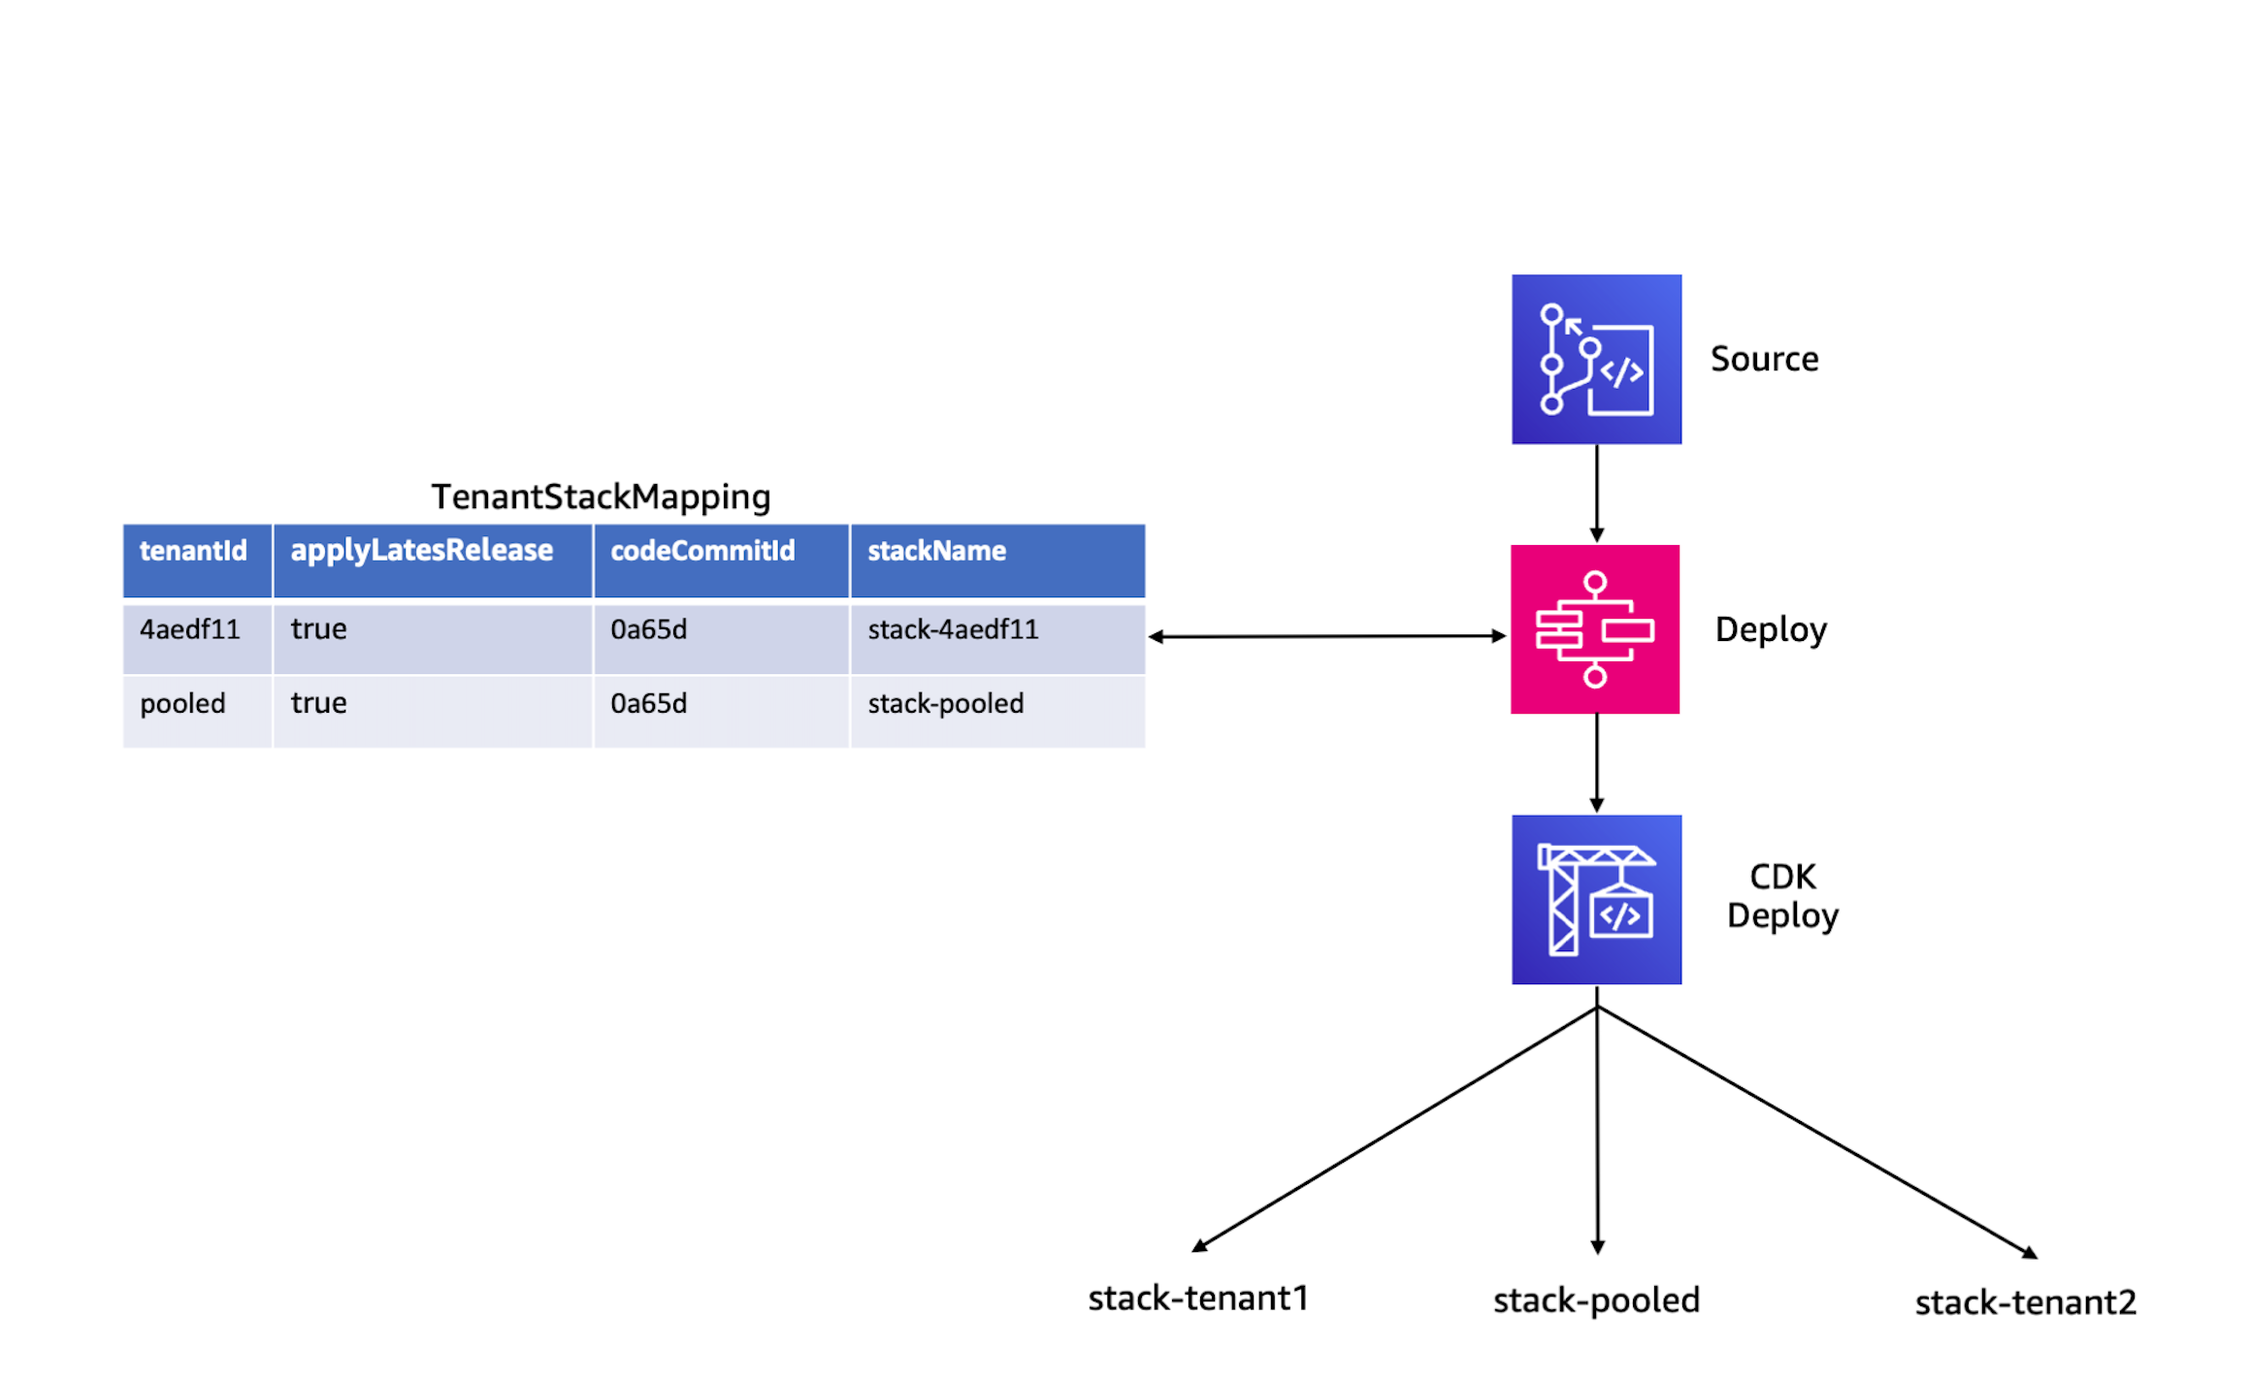
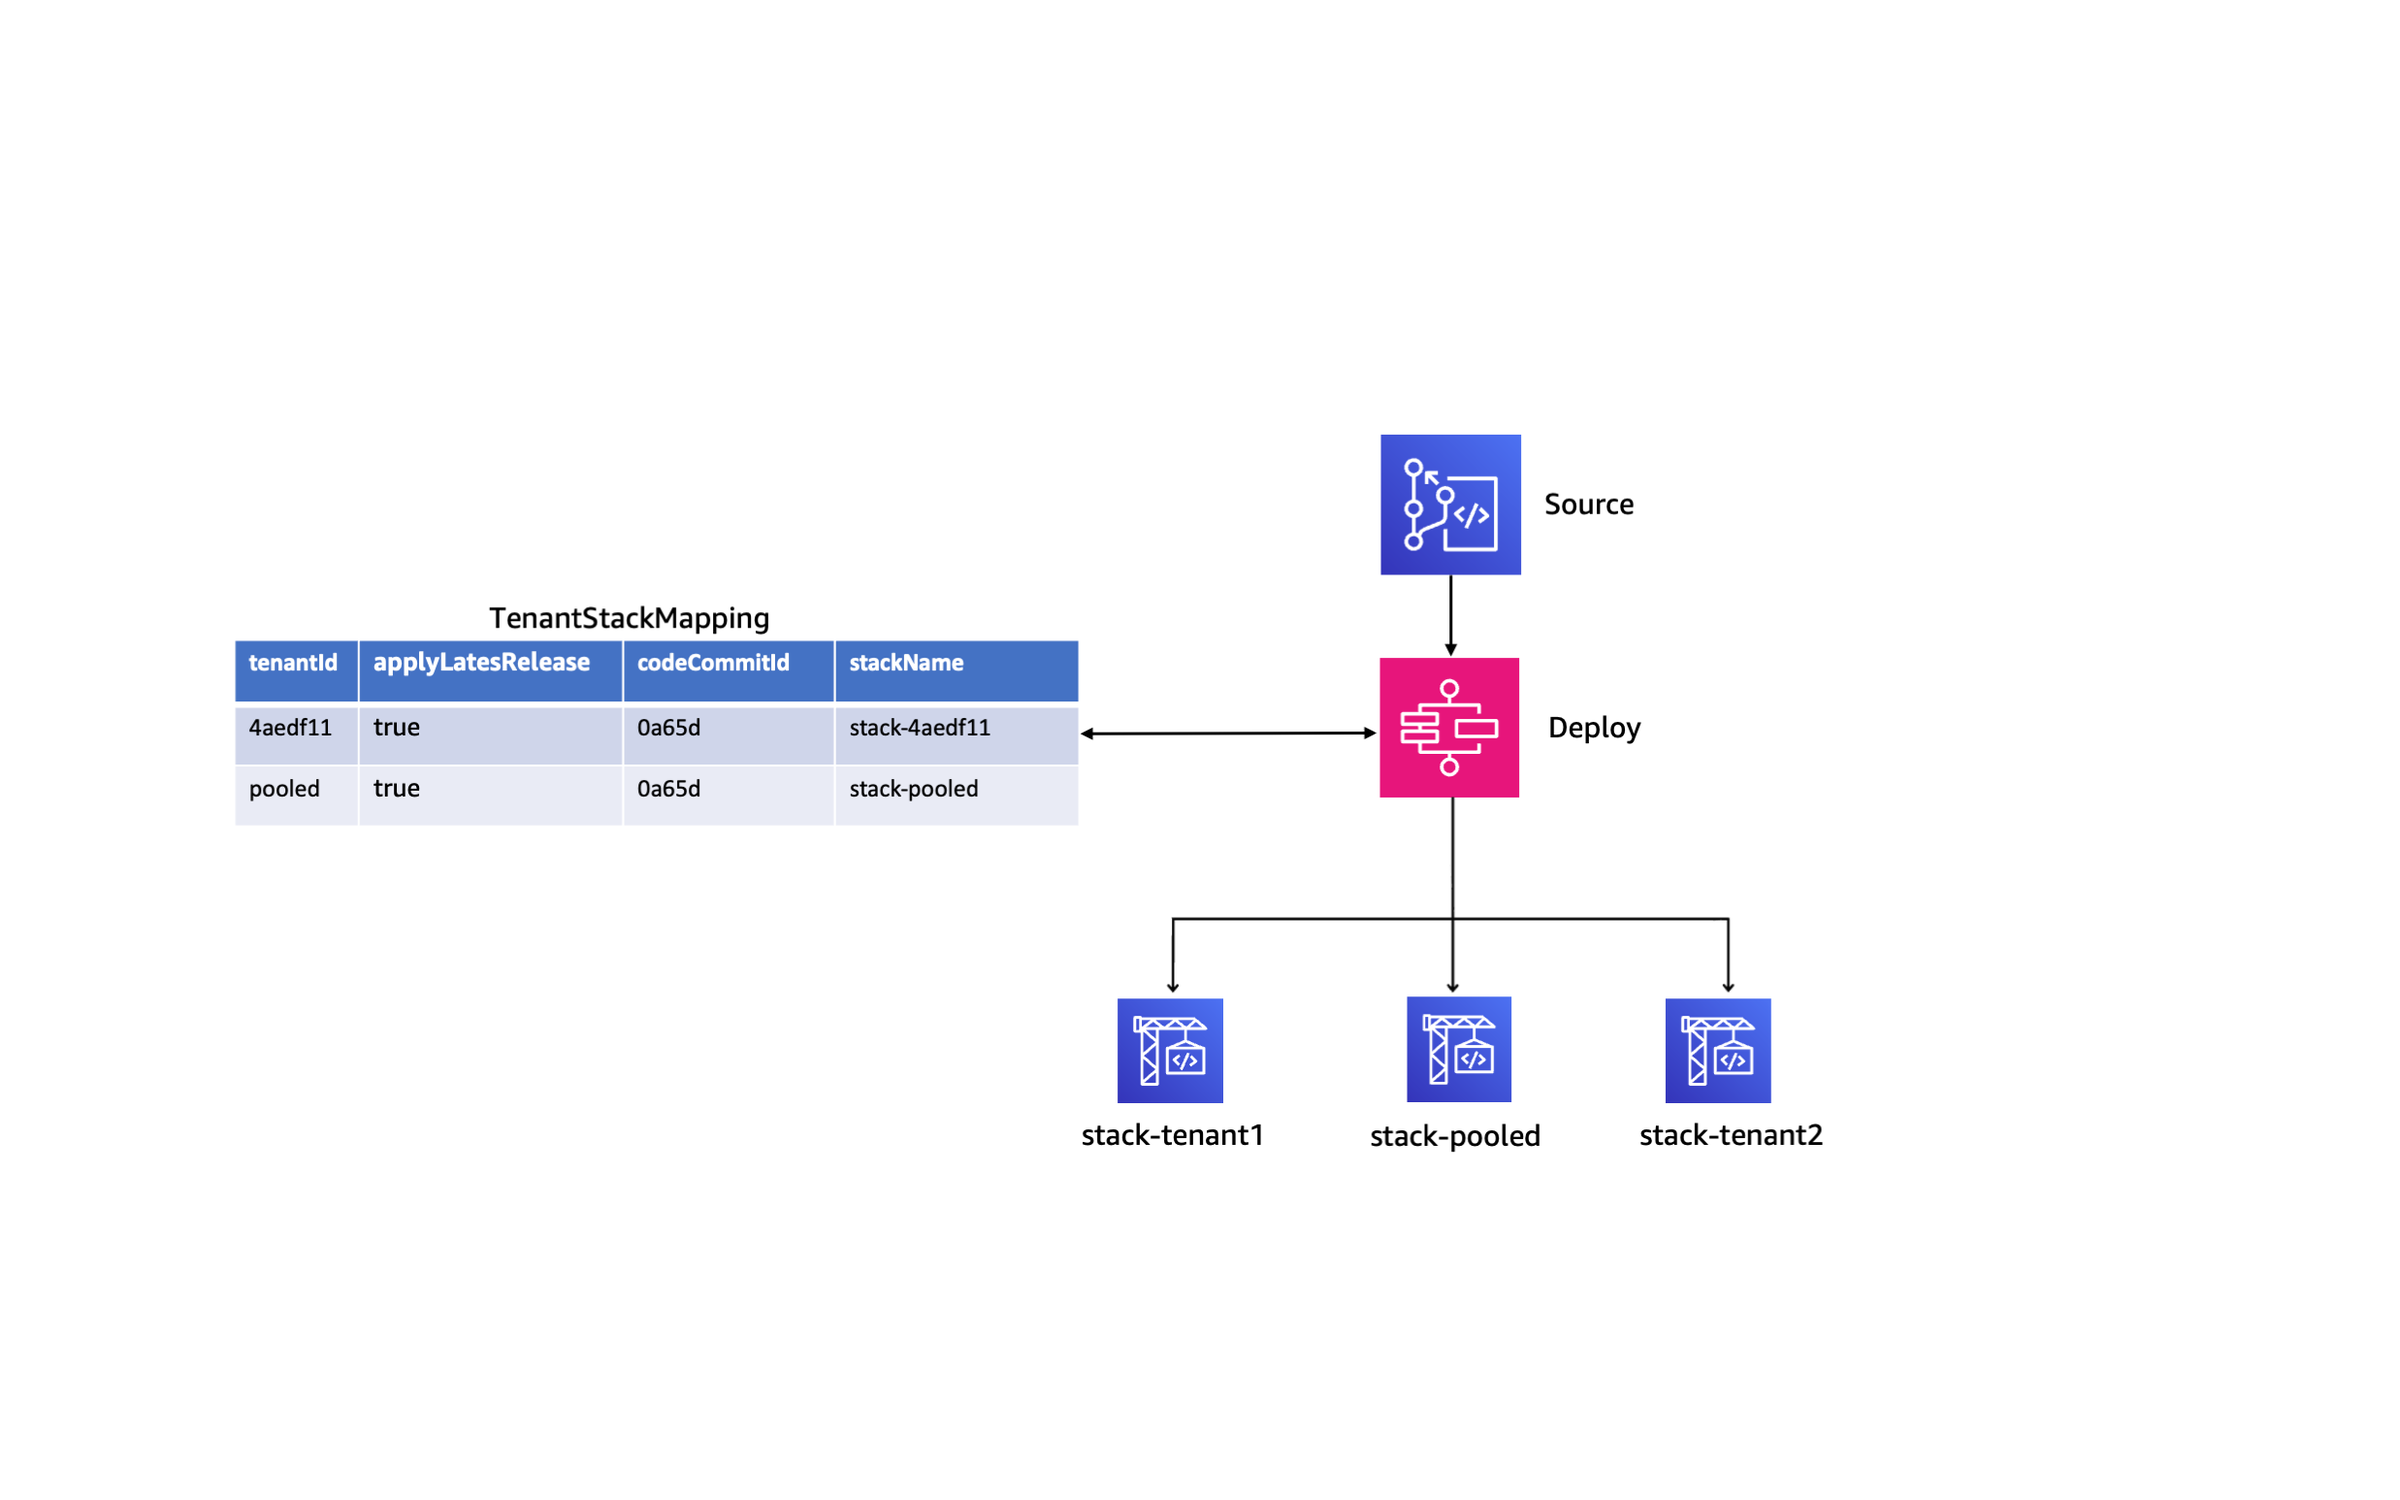
Updated tenant pipeline image and description.  Removed old build script.

diff --git a/DOCUMENTATION.md b/DOCUMENTATION.md
@@ -227,9 +227,7 @@ This pipeline also takes care of updating the tenant infrastructure using a CI/C
 
 <p align="center"><img src="images/TenantPipeline_v3.png" alt="Tenant Pipeline"/>Figure 6: Tenant Pipeline</p>
 
-Figure 6 provides a clearer picture of the moving parts of the deployment experience. You'll see that we've used CodeCommit to host our code repository. CodeBuild is used to build the CDK Application using the [server-saas-ref-template.ts](server/bin/server-saas-ref-template.ts) file. 
-
-The CodePipeline process involves acquiring the latest source code and then invoking an AWS Step Function, which calls an AWS CodeBuild project to build and deploy the CDK application for each tenant environment.
+Figure 6 provides a clearer picture of the moving parts of the deployment experience. The CodePipeline process involves acquiring the latest source code from AWS CodeCommit and then invoking an AWS Step Function, which calls an AWS CodeBuild project to build and deploy the CDK application  [server-saas-ref-template.ts](server/bin/serverless-saas-ref-template.ts) for each tenant environment.
 
 The TenantStackMapping Table is at the heart of this deploy step. This table is seeded with an entry for pooled stack (Basic, Standard, Premium tier tenants) as part of baseline infrastructure deployment. We then use this pipeline to provision pooled application services during baseline infrastructure creation. The registration process further creates an entry inside this table for any new Platinum tier tenant created. The CodePipeline uses this table to create and update stacks, as needed.
 
